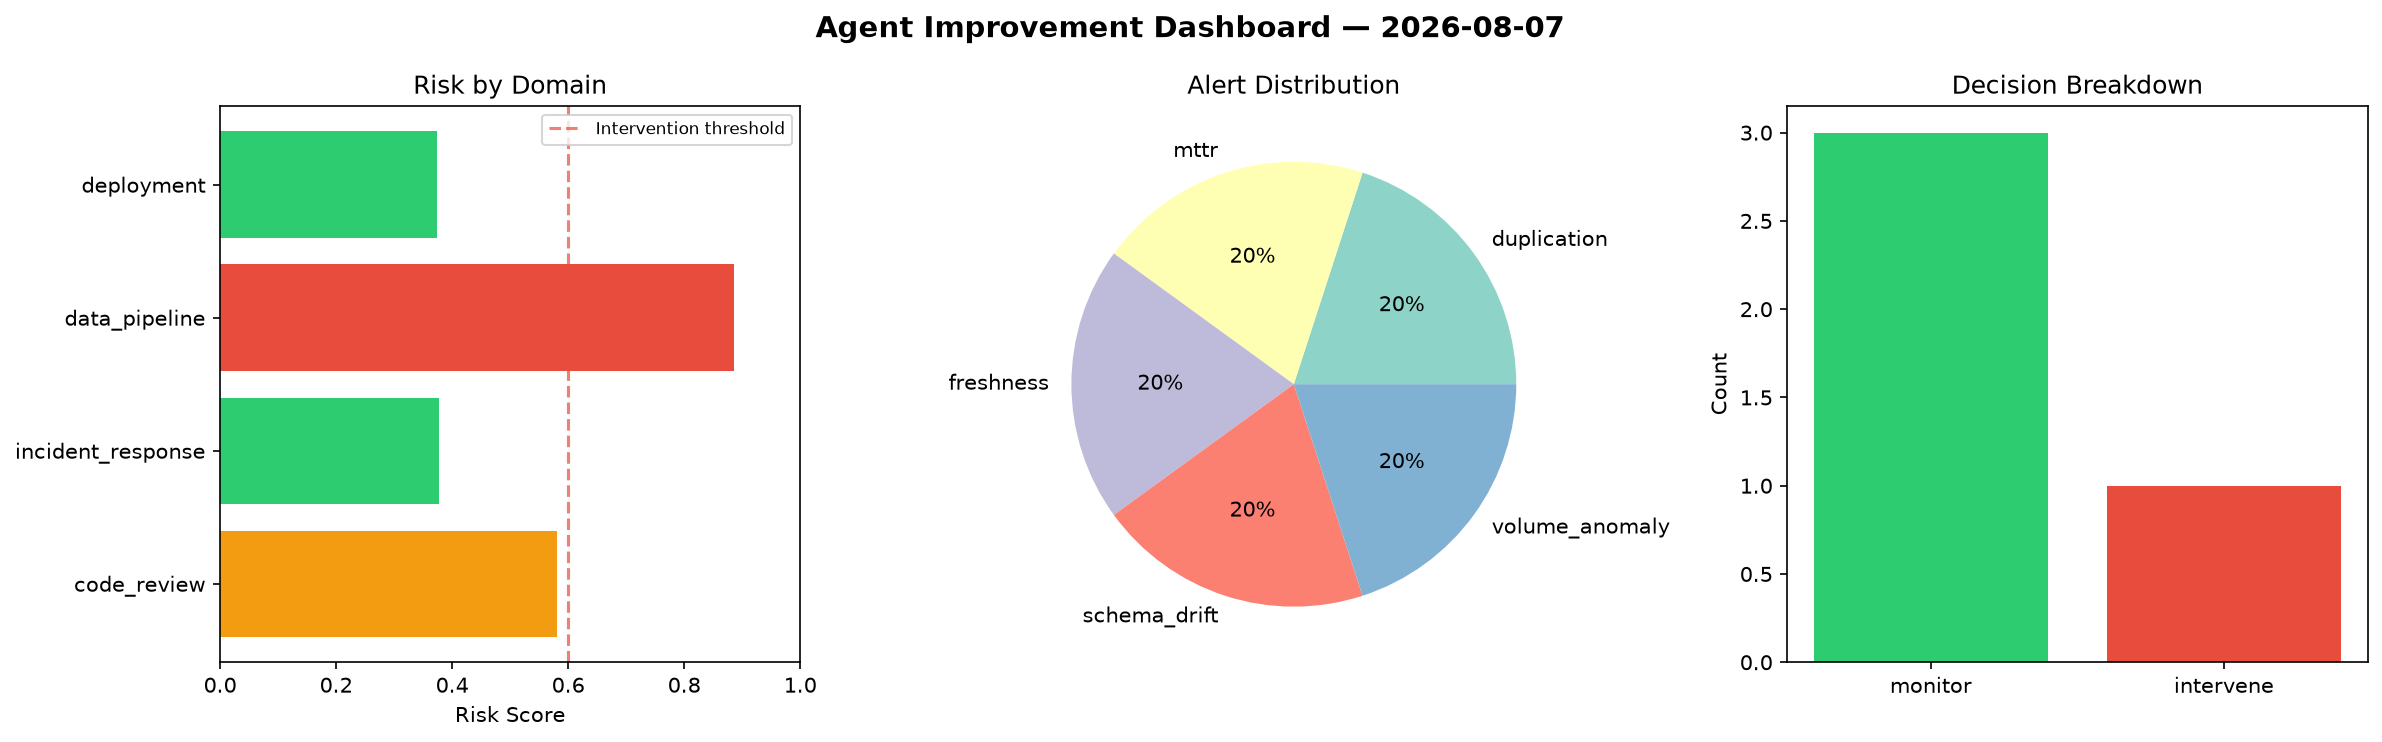
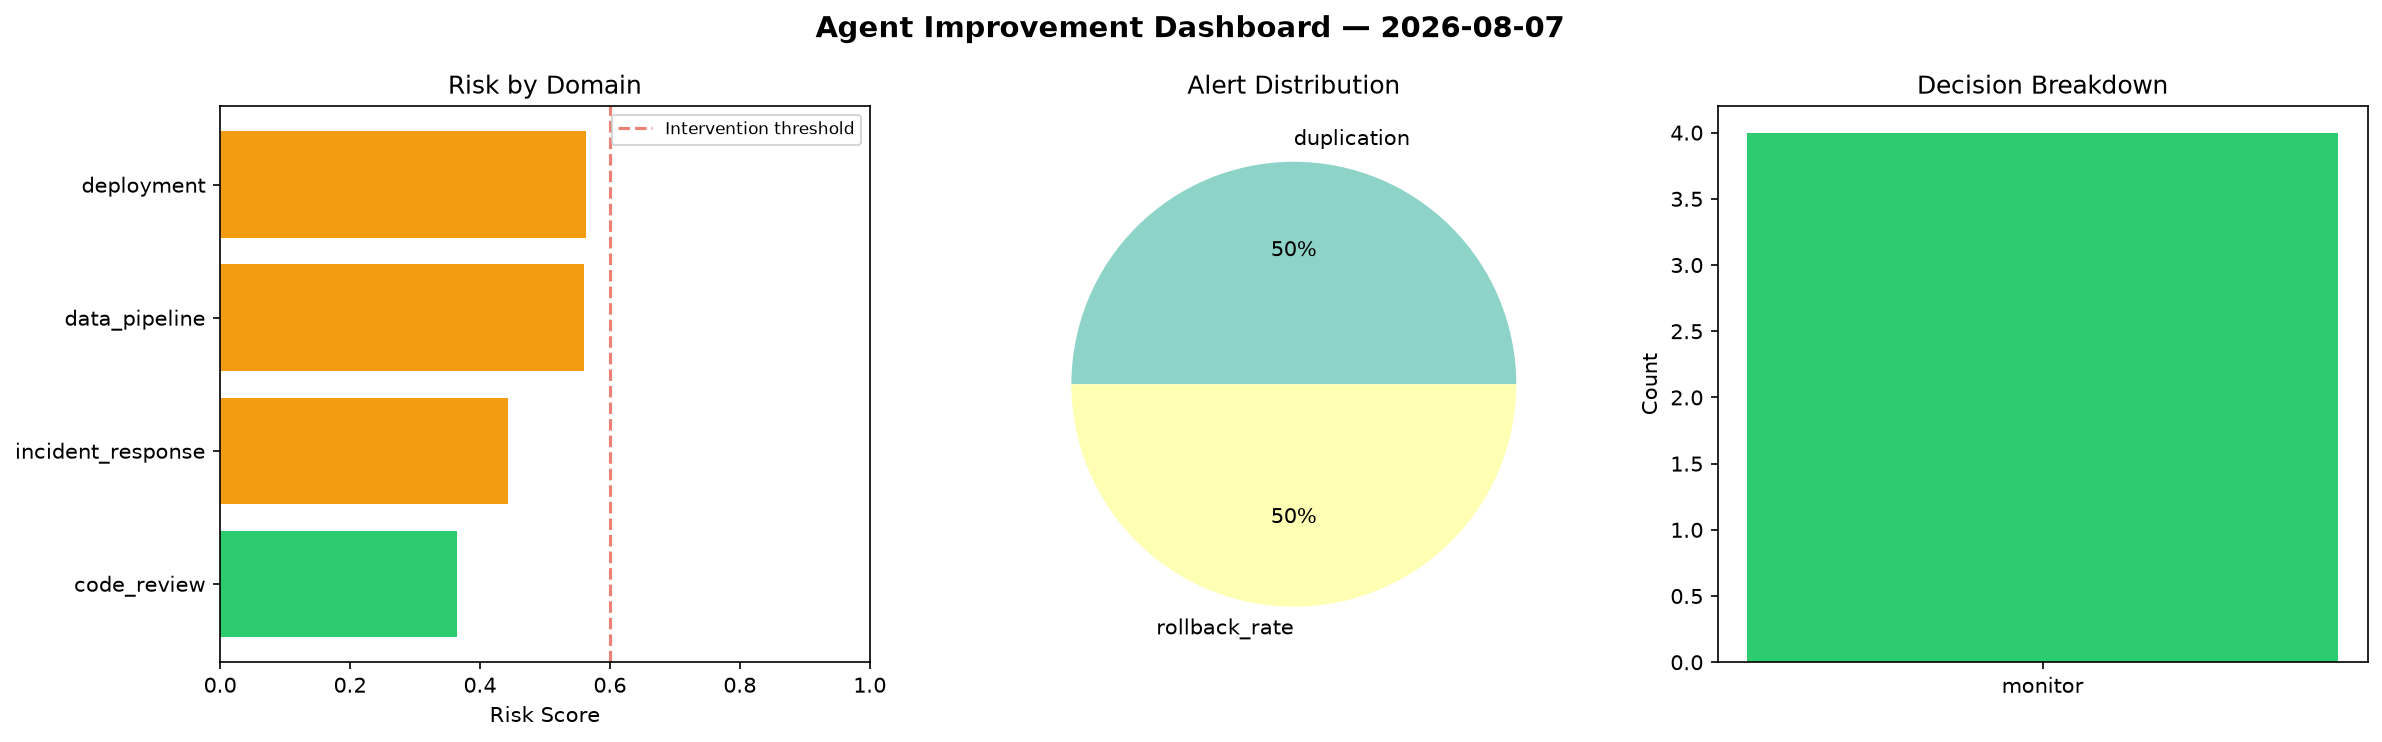
agent-improvement: daily cycle 2026-08-07T20:56

diff --git a/logs/2026-08-07.md b/logs/2026-08-07.md
@@ -1,6 +1,6 @@
 # Agent Improvement Report — 2026-08-07
 
-**Cycle ID:** `65301d63` | **Avg Risk:** 0.5539 | **Interventions:** 1/4
+**Cycle ID:** `e807f910` | **Avg Risk:** 0.4829 | **Interventions:** 0/4
 
 ![Dashboard](2026-08-07_dashboard.png)
 
@@ -10,18 +10,18 @@
 
 | Domain | Risk Score | Decision | Alerts |
 |--------|-----------|----------|--------|
-| code_review | 0.5798 | monitor | duplication |
-| incident_response | 0.377 | monitor | mttr |
-| data_pipeline | 0.8859 | intervene | freshness, schema_drift, volume_anomaly |
-| deployment | 0.373 | monitor | none |
+| code_review | 0.365 | monitor | duplication |
+| incident_response | 0.4429 | monitor | none |
+| data_pipeline | 0.5596 | monitor | none |
+| deployment | 0.5639 | monitor | rollback_rate |
 
 ## Delta vs Yesterday
 
 | Domain | Today | Yesterday | Change |
 |--------|-------|-----------|--------|
-| code_review | 0.5798 | 0.3114 | 📈 86.2% |
-| incident_response | 0.377 | 0.6364 | 📉 -40.8% |
-| data_pipeline | 0.8859 | 0.5749 | 📈 54.1% |
-| deployment | 0.373 | 0.4017 | 📉 -7.1% |
+| code_review | 0.365 | 0.3114 | 📈 17.2% |
+| incident_response | 0.4429 | 0.6364 | 📉 -30.4% |
+| data_pipeline | 0.5596 | 0.5749 | 📉 -2.7% |
+| deployment | 0.5639 | 0.4017 | 📈 40.4% |
 
-**Refinement:** `{'adjustment': 'maintain', 'trend': 'improving', 'window': 4}`
+**Refinement:** `{'adjustment': 'tighten_thresholds', 'trend': 'degrading', 'window': 4}`
